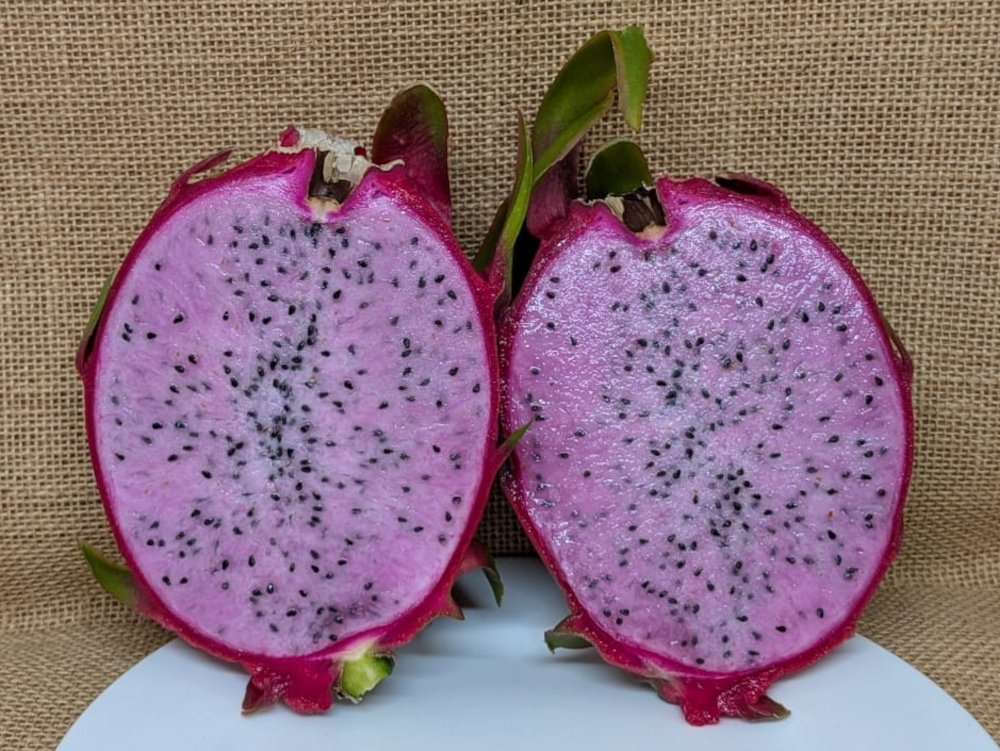
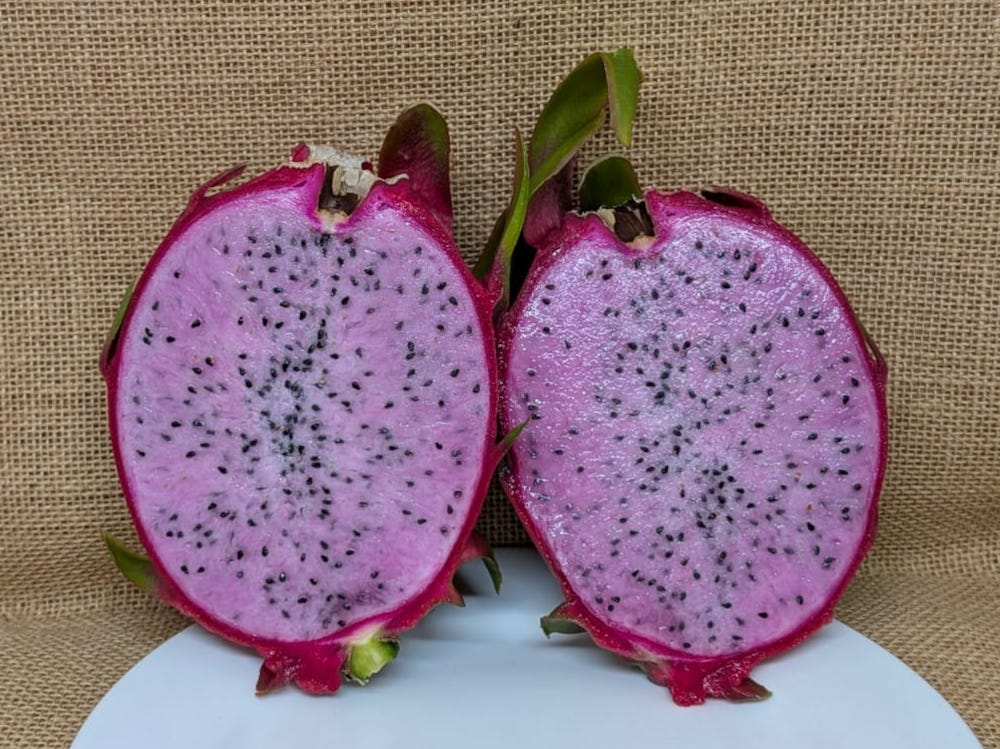
Blush's turn

diff --git a/varieties/blush.html b/varieties/blush.html
@@ -1,0 +1,81 @@
+---
+layout: default
+title: Blush
+---
+
+<head>
+  <link href="varieties.css" type="text/css" rel="stylesheet">
+</head>
+<div class="standard">
+  <div class="grid-for-copyright">
+    <div class="grid-container">
+      <div class="overview">
+
+        <div class="flexigrid">
+          <div class="variety-title">
+            <h2><u>Overview</u></h2>
+            <p><i>H. undatus &times guatemalensis</i>, cv. <b>Blush</b></p>
+          </div>
+          <div class="fruit-top">
+            <img src="Variety Photos/Blush/Blush - Fruit 4.jpg" alt="Blush dragon fruit halved" class="double">
+            <img src="Variety Photos/Blush/Blush - Fruit 3.jpg" alt="Blush dragon fruit whole" class="double">
+          </div>
+          <div class="description">
+            <p><u>Other names</u>: None that I am aware of<br><u>Pollination</u>: <a href="../how-to-grow/pollination-and-harvest/pollination-and-harvest.html">self-sterile</a></p>
+            <p>Blush is one of three light-pink-fleshed dragon fruit varieties I have growing in the same trellis, the other two being <a href="../varieties/delight.html">Delight</a> and White Sapphire. It is a relatively unknown variety in the dragon fruit world, excepting Australia where it was developed (at Tamborine Dragon Fruit Farm in Queensland). I wouldn’t say it’s anything special, if I’m being honest, though the flavour is quite fruity/tropical which might be a selling point. The plant is quite distinctive, with only one thorn at each intersection, and a nice round flower that you don’t usually see in varieties without Selenicereus DNA.</p>
+          </div>
+          <div class="plant-picture">
+            <img src="Variety Photos/Blush/Blush - Plant.jpg" alt="Picture of the whole plant" class="single">
+          </div>
+        </div>
+
+      </div>
+      <hr class="extra-line">
+      </hr>
+
+      <div class="identification">
+
+        <div class="sub-grid">
+          <div>
+            <h3>Buds</h3>
+            <p>The buds on this variety are very similar to <a href="../varieties/delight.html">Delight</a>, starting out as little golden blobs which grow into nice green protrusions with red tips. The main difference occurs when they are about to open, with Blush being more rounded on the flower end and Delight being pointier. This hints at the next obvious difference between the two varieties, which is of course the flower.</p>
+          </div>
+
+          <div>
+            <img src="Variety Photos/Blush/Blush - Bud 1.jpg" class="buds" alt="Small buds">
+            <img src="Variety Photos/Blush/Blush - Bud 2.jpg" class="buds" alt="Bigger buds">
+            <img src="Variety Photos/Blush/Blush - Bud 3.jpg" class="buds" alt="Buds about to open">
+          </div>
+        </div>
+        <hr>
+        </hr>
+
+        <div class="sub-grid">
+          <div>
+            <h3>Flowers</h3>
+            <p>
+            <p>Blush produces flowers which are unusually round for the Hylocereus genus, which makes them quite attractive. As you might expect from a self-sterile variety, the stigma protrudes well away from the anthers, so make sure you cross pollinate. I would say the flowers are a touch smaller than average, and have more of a yellow tinge, enhanced by the neat circular shape of the petals around the anthers.</p>
+          </div>
+
+          <div>
+            <img src="Variety Photos/Blush/Blush - Flower 1.jpg" class="flowers" alt="Night Flower">
+            <img src="Variety Photos/Blush/Blush - Flower 2.jpg" class="flowers" alt="Day Flower">
+          </div>
+        </div>
+        <hr>
+        </hr>
+
+        <div class="sub-grid">
+          <div>
+            <h3>Fruit</h3>
+            <p>In my limited experience, Blush produces fruit of a reasonable size, with a nice pink skin which is not excessively vibrant. The flesh is pale pink, which is rare but not unique among dragon fruit varieties, and likely the source of its name. Unfortunately, the texture wasn’t quite there for me, being a little soft and mushy which kind of ruined the complex tropical flavours from coming through. Hopefully the fruit improves as the plant matures.</p>
+          </div>
+          <div>
+            <img src="Variety Photos/Blush/Blush - Fruit 1.jpg" class="fruit" alt="Green fruit">
+            <img src="Variety Photos/Blush/Blush - Fruit 2.jpg" class="fruit" alt="Ripening fruit">
+          </div>
+        </div>
+      </div>
+    </div>
+  </div>
+</div>

diff --git a/_site/index.html b/_site/index.html
@@ -279,7 +279,9 @@
 
         <li class="column filterDiv Pink-Flesh Pink-Skin White-Flower Self-Sterile">
           <div class="content">
+            <a href="varieties/blush.html">
               <img id="theImage17" src="varieties/Variety Photos/Blush/Blush - Fruit 4.jpg" alt="Blush dragon fruit picture">
+            </a>
             <p>Blush<br><i>H. undatus &times guatemalensis</i></p>
           </div>
         </li>

diff --git a/index.html b/index.html
@@ -210,7 +210,9 @@ title: Home
 
         <li class="column filterDiv Pink-Flesh Pink-Skin White-Flower Self-Sterile">
           <div class="content">
+            <a href="varieties/blush.html">
               <img id="theImage17" src="varieties/Variety Photos/Blush/Blush - Fruit 4.jpg" alt="Blush dragon fruit picture">
+            </a>
             <p>Blush<br><i>H. undatus &times guatemalensis</i></p>
           </div>
         </li>